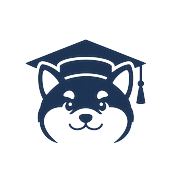
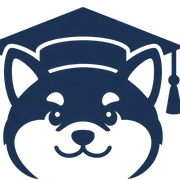
Add files via upload

diff --git a/index.html b/index.html
@@ -12,9 +12,9 @@
 <meta property="og:url" content="https://masahirosuzuki.com/">
 <meta property="og:image" content="https://masahirosuzuki.com/media/images/masahiro-suzuki.jpg">
 <meta name="twitter:card" content="summary">
-<link rel="icon" type="image/png" sizes="32x32" href="/media/images/favicon-32.png">
-<link rel="icon" type="image/png" sizes="16x16" href="/media/images/favicon-16.png">
-<link rel="shortcut icon" href="/favicon.ico">
+<link rel="icon" type="image/png" sizes="32x32" href="/media/images/favicon-32-max.png?v=4">
+<link rel="icon" type="image/png" sizes="16x16" href="/media/images/favicon-16-max.png?v=4">
+<link rel="shortcut icon" href="/favicon.ico?v=4">
 <link rel="apple-touch-icon" sizes="180x180" href="/apple-touch-icon.png">
 <style>
 :root{--text:#20262d;--muted:#68737d;--line:#e5e8eb;--link:#225f7c;--max:980px}
@@ -23,7 +23,7 @@ body{margin:0;background:#fff;color:var(--text);font:17px/1.65 -apple-system,Bli
 a{color:var(--link);text-decoration:none}a:hover{text-decoration:underline}a:focus-visible,button:focus-visible{outline:2px solid var(--link);outline-offset:3px}
 .wrap{width:min(calc(100% - 40px),var(--max));margin:auto}
 header{padding:34px 0 18px;border-bottom:1px solid var(--line)}
-nav{display:flex;align-items:center;justify-content:space-between;gap:24px;flex-wrap:wrap}.nav{display:flex;align-items:center;gap:18px;flex-wrap:wrap;font-size:.94rem}.nav a{color:var(--text)}.home-logo{display:inline-flex;align-items:center;justify-content:center;width:52px;height:52px;margin-right:4px;flex:0 0 auto}.home-logo img{display:block;width:100%;height:100%;object-fit:contain}.home-logo:hover{text-decoration:none}
+nav{display:flex;align-items:center;justify-content:space-between;gap:24px;flex-wrap:wrap}.nav{display:flex;align-items:center;gap:18px;flex-wrap:wrap;font-size:.94rem}.nav a{color:var(--text)}.home-logo{display:inline-flex;align-items:center;justify-content:center;width:64px;height:56px;margin-right:6px;flex:0 0 auto}.home-logo img{display:block;width:100%;height:100%;object-fit:contain}.home-logo:hover{text-decoration:none}
 .nav-controls{display:flex;align-items:center}.lang-switch{display:inline-flex;align-items:center;gap:6px;padding:4px;border:1px solid var(--line);border-radius:999px;background:#f7f8f9}
 .lang-btn{appearance:none;border:0;background:transparent;color:var(--muted);padding:6px 10px;border-radius:999px;cursor:pointer;font:inherit;font-size:.82rem}.lang-btn.active{background:#fff;color:var(--text);box-shadow:0 1px 2px rgba(0,0,0,.06);font-weight:600}
 .hero{display:grid;grid-template-columns:minmax(0,1.55fr) minmax(220px,.65fr);gap:68px;align-items:center;padding:68px 0 56px}h1{font-size:clamp(2.2rem,5vw,4.2rem);line-height:1;letter-spacing:-.055em;margin:0}.role{color:var(--muted);font-size:1.1rem;margin:17px 0 0}.intro{font-size:1.12rem;max-width:670px;margin:25px 0 0}.actions{display:flex;gap:11px;flex-wrap:wrap;align-items:center;margin-top:27px}.btn{border:1px solid #ced5da;border-radius:12px;padding:9px 14px;color:var(--text);display:inline-flex;align-items:center;justify-content:center;min-height:60px}.btn.primary{background:var(--text);color:#fff;border-color:var(--text);min-width:74px}.icon-btn{width:60px;min-width:60px;padding:0;background:#fff}.icon-btn svg{width:28px;height:28px;display:block}.icon-btn.scholar svg{width:32px;height:32px}.icon-btn.linkedin img{width:30px;height:30px;display:block;border-radius:5px}.icon-btn.email{color:var(--text)}.sr-only{position:absolute;width:1px;height:1px;padding:0;margin:-1px;overflow:hidden;clip:rect(0,0,0,0);white-space:nowrap;border:0}
@@ -31,14 +31,14 @@ nav{display:flex;align-items:center;justify-content:space-between;gap:24px;flex-
 .figure-link{display:inline-block;cursor:zoom-in}.figure-link:focus-visible{outline:2px solid var(--text);outline-offset:4px;border-radius:4px}.figure-dialog{width:min(94vw,1400px);max-width:none;max-height:94vh;padding:0;border:0;border-radius:10px;background:#fff;box-shadow:0 20px 70px rgba(0,0,0,.28);overflow:visible}.figure-dialog::backdrop{background:rgba(0,0,0,.72)}.figure-dialog img{display:block;max-width:94vw;max-height:90vh;width:auto;height:auto;margin:auto;border-radius:8px}.figure-dialog-close{position:absolute;right:-12px;top:-12px;width:36px;height:36px;border:0;border-radius:50%;background:var(--text);color:#fff;font:inherit;font-size:22px;line-height:1;cursor:pointer;box-shadow:0 2px 8px rgba(0,0,0,.2)}
 .timeline{display:grid;gap:25px}.record{display:grid;grid-template-columns:110px 1fr;gap:18px;align-items:flex-start}.record-main{display:flex;flex-direction:column;gap:4px}.period{color:var(--muted);font-variant-numeric:tabular-nums;font-size:1.05rem}.record-title{font-weight:650;font-size:1.06rem;letter-spacing:-.015em}.record-meta{color:var(--muted);font-size:1.02rem}.record-details{color:var(--muted);font-size:.94rem;margin-top:3px;max-width:720px}
 .award{display:grid;grid-template-columns:58px 1fr;gap:16px;margin:8px 0}.year{color:var(--muted)}.award a{color:var(--text);text-decoration:underline;text-decoration-thickness:1.5px;text-underline-offset:.12em}.contact{display:flex;gap:18px;flex-wrap:wrap}footer{border-top:1px solid var(--line);padding:28px 0 44px;color:var(--muted);font-size:.9rem}.load-error{padding:18px 0;color:var(--muted)}
-@media(max-width:760px){.hero{grid-template-columns:1fr;gap:32px;padding-top:46px}.photo{width:min(78%,360px);order:-1}.grid{grid-template-columns:1fr;gap:15px}.paper-with-figure{grid-template-columns:1fr;gap:14px}.paper-figure{max-width:min(100%,320px);max-height:260px}.record{grid-template-columns:1fr;gap:2px}nav{align-items:flex-start}.nav{gap:14px}.home-logo{width:46px;height:46px;margin-right:2px}.nav-controls{width:100%;justify-content:flex-end}.icon-btn{width:54px;min-width:54px;min-height:54px}.icon-btn.scholar svg{width:28px;height:28px}.icon-btn.linkedin img{width:26px;height:26px}.icon-btn.email svg{width:24px;height:24px}}
+@media(max-width:760px){.hero{grid-template-columns:1fr;gap:32px;padding-top:46px}.photo{width:min(78%,360px);order:-1}.grid{grid-template-columns:1fr;gap:15px}.paper-with-figure{grid-template-columns:1fr;gap:14px}.paper-figure{max-width:min(100%,320px);max-height:260px}.record{grid-template-columns:1fr;gap:2px}nav{align-items:flex-start}.nav{gap:14px}.home-logo{width:54px;height:48px;margin-right:3px}.nav-controls{width:100%;justify-content:flex-end}.icon-btn{width:54px;min-width:54px;min-height:54px}.icon-btn.scholar svg{width:28px;height:28px}.icon-btn.linkedin img{width:26px;height:26px}.icon-btn.email svg{width:24px;height:24px}}
 </style>
 <script type="application/ld+json">
 {"@context":"https://schema.org","@type":"Person","name":"Masahiro Suzuki","url":"https://masahirosuzuki.com/","jobTitle":"Postdoctoral Researcher","affiliation":[{"@type":"Organization","name":"Chalmers University of Technology"},{"@type":"Organization","name":"ENTAP – Energy Technology and Policy","url":"https://entap.net/"}],"sameAs":["https://www.linkedin.com/in/suzuki-masahiro/","https://scholar.google.com/citations?user=iCK54XQAAAAJ&hl=en","https://github.com/suzuki-masahiro-phd"]}
 </script>
 </head>
 <body>
-<header><div class="wrap"><nav aria-label="Primary"><div class="nav"><a class="home-logo" href="#" aria-label="Home"><img src="/media/images/site-logo.png" alt="" aria-hidden="true"></a><a href="#publications" id="nav-publications">Publications</a><a href="#employment" id="nav-employment">Employment</a><a href="#education" id="nav-education">Education</a><a href="#awards" id="nav-awards">Awards</a><a href="#contact" id="nav-contact">Contact</a></div><div class="nav-controls"><div class="lang-switch" role="group" aria-label="Language selection"><button class="lang-btn active" data-lang="en" aria-pressed="true">EN</button><button class="lang-btn" data-lang="ja" aria-pressed="false">日本語</button></div></div></nav></div></header>
+<header><div class="wrap"><nav aria-label="Primary"><div class="nav"><a class="home-logo" href="#" aria-label="Home"><img src="/media/images/site-logo-cropped.png" alt="" aria-hidden="true"></a><a href="#publications" id="nav-publications">Publications</a><a href="#employment" id="nav-employment">Employment</a><a href="#education" id="nav-education">Education</a><a href="#awards" id="nav-awards">Awards</a><a href="#contact" id="nav-contact">Contact</a></div><div class="nav-controls"><div class="lang-switch" role="group" aria-label="Language selection"><button class="lang-btn active" data-lang="en" aria-pressed="true">EN</button><button class="lang-btn" data-lang="ja" aria-pressed="false">日本語</button></div></div></nav></div></header>
 <main class="wrap">
 <div class="hero"><div><h1 id="name"></h1><p class="role"><a id="chalmers-profile"><span id="position"></span> · <span id="institution"></span></a><span id="group-wrap" hidden> · <a id="group"></a></span></p><p class="intro" id="intro"></p><div class="actions"><a class="btn primary" id="cv"></a><a class="btn icon-btn scholar" id="scholar" aria-label="Google Scholar" title="Google Scholar"><svg viewBox="0 0 64 64" aria-hidden="true"><path fill="#4285F4" d="M32 8 6 21l26 13 21.26-10.63V40H58V21L32 8Z"/><path fill="#7BAAF7" d="M15 27.5V36c0 6.08 7.61 11 17 11s17-4.92 17-11v-8.5L32 36 15 27.5Z"/><path fill="#AECBFA" d="M16 37.2C18.2 42.5 24.5 46 32 46s13.8-3.5 16-8.8V36c0 6.08-7.16 11-16 11s-16-4.92-16-11v1.2Z"/></svg><span class="sr-only">Google Scholar</span></a><a class="btn icon-btn linkedin" id="linkedin" aria-label="LinkedIn" title="LinkedIn"><img src="/media/images/linkedin-logo.png" alt="" aria-hidden="true"><span class="sr-only">LinkedIn</span></a><a class="btn icon-btn email" id="email" aria-label="Email" title="Email"><svg viewBox="0 0 24 24" aria-hidden="true"><path fill="none" stroke="currentColor" stroke-width="1.8" stroke-linecap="round" stroke-linejoin="round" d="M4 6.5h16A1.5 1.5 0 0 1 21.5 8v8A1.5 1.5 0 0 1 20 17.5H4A1.5 1.5 0 0 1 2.5 16V8A1.5 1.5 0 0 1 4 6.5Zm0 1 8 6 8-6"/></svg><span class="sr-only">Email</span></a></div></div><img class="photo" id="photo" alt=""></div>
 <section id="publications"><div class="grid"><h2 id="publications-title">Selected publications</h2><div><div class="items" id="publication-list"></div><p><a id="all-pubs">View all publications on Google Scholar →</a></p></div></div></section>
